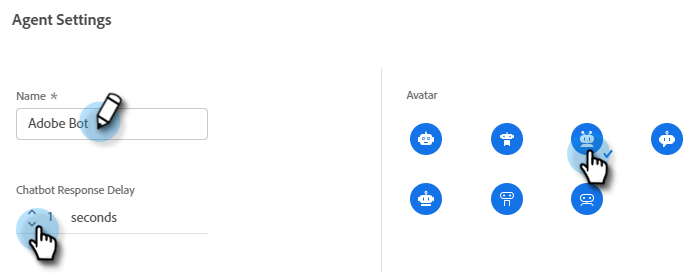
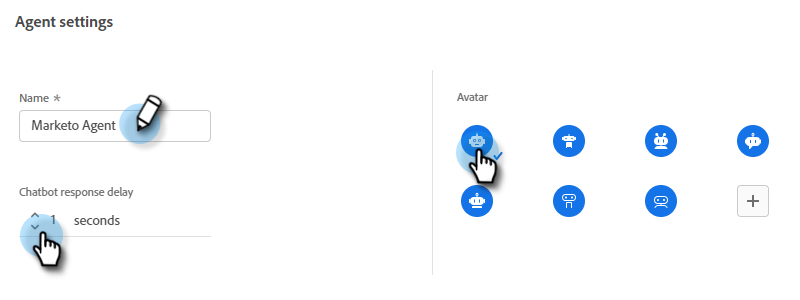
release stuff

diff --git a/help/marketo/product-docs/demand-generation/dynamic-chat/configuration.md b/help/marketo/product-docs/demand-generation/dynamic-chat/configuration.md
@@ -35,6 +35,10 @@ In Agent Settings, you can add a label to your chatbox (ex: "Adobe Bot") that wi
 
    ![](assets/configuration-5.png)
 
+   >[!NOTE]
+   >
+   >Custom avatars should be square images less than 256kb and smaller than 200x200 px. Supported file types include: .jpg, .png, .gif, .webp, .svg.
+
 When you're done making changes, remember to click **Save**.
 
    ![](assets/configuration-6.png)

diff --git a/help/marketo/product-docs/marketo-sales-insight/msi-for-salesforce/features/dynamic-chat-integration.md b/help/marketo/product-docs/marketo-sales-insight/msi-for-salesforce/features/dynamic-chat-integration.md
@@ -1,8 +1,6 @@
 ---
 description: Dynamic Chat Integration - Marketo Docs - Product Documentation
 title: Dynamic Chat Integration
-hide: yes
-hidefromtoc: yes
 exl-id: b2e3b4da-9ca7-4299-9c50-f52e0de91e36
 ---
 # Dynamic Chat Integration {#dynamic-chat-integration}
